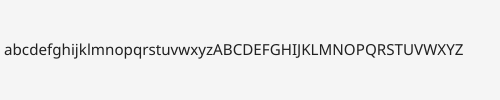
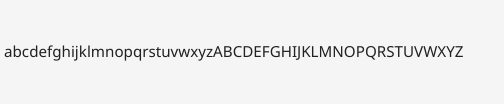
Add padding to window size

Changed region(s): [[0.0, 0.42, 0.93, 0.6]]

diff --git a/canvas/text_test.go b/canvas/text_test.go
@@ -110,7 +110,7 @@ func TestText_Layout(t *testing.T) {
 			text.Alignment = tt.align
 
 			window := test.NewWindow(text)
-			window.Resize(text.MinSize().Max(tt.size))
+			window.Resize(text.MinSize().Max(tt.size).Add(fyne.NewSize(theme.Padding(), theme.Padding())))
 
 			test.AssertImageMatches(t, "text/layout_"+name+".png", window.Canvas().Capture())
 
